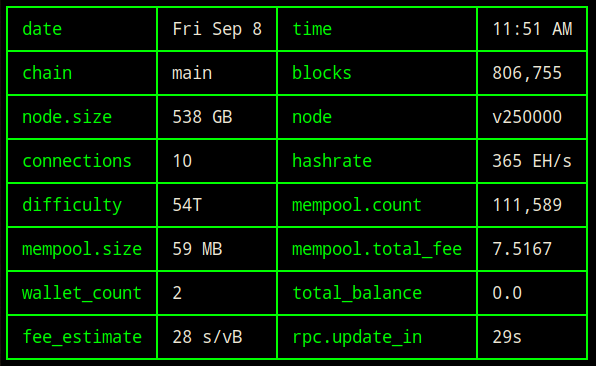
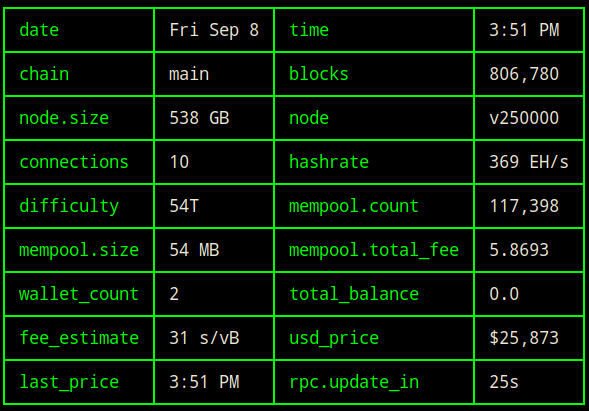
added external price fetch

Changed region(s): [[0.0, 0.0, 1.0, 0.9918]]

diff --git a/view/info.py b/view/info.py
@@ -1,9 +1,12 @@
-import time
+import time, json
 from rich.live import Live
 from rich.table import Table
 from datetime import datetime as dtm
 import util, rpc
+from pathlib import Path
+from datetime import datetime
 
+next_price_up_at = None
 
 def _table(data: dict, clr: str, updt_in:int):
     if data: 
@@ -13,25 +16,36 @@ def _table(data: dict, clr: str, updt_in:int):
         vlist, row = [], []
         vlist.append(['date', datestr, 'time', timestr])
         data['rpc.update_in'] = f'[{clr}]{updt_in}s'
-        for k, v in data.items():
+        for idx, k in enumerate(data):
+            v = data[k]
             row.append(k)
             row.append(v)
-            if len(row) == 4:
+            if len(row) == 4 or idx == len(data) - 1:
                 vlist.append(row)
                 row = []
         for v in vlist: 
-            tbl.add_row(v[0], f'[{clr}]{v[1]}', v[2], f'[{clr}]{v[3]}')
+            if len(v) == 4:
+                tbl.add_row(v[0], f'[{clr}]{v[1]}', v[2], f'[{clr}]{v[3]}')
+            elif len(v) == 2:
+                tbl.add_row(v[0], f'[{clr}]{v[1]}')                
         return tbl
     
 
-def get_data():
+def get_data(fetch_price):
     data = rpc.get_info()
+    f = Path(__file__).parents[1] / 'ext_data.json'
+    if fetch_price == 1 and f.exists():
+        delay = int(util.get_conf('stats')['price_fetch_delay'])
+        ext = json.loads(f.read_text(encoding='UTF-8'))
+        data['usd_price'] = f"${ext['price']:,}"
+        data['last_price'] = (datetime.fromtimestamp(ext['timestamp'])).strftime('%-I:%M %p')
+
     return data
 
 
-def load():
+def load(fetch_price):
     cfg = util.get_conf('console')
-    data = get_data()
+    data = get_data(fetch_price)
     clr = cfg['font_color']
     updt_in = int(cfg['rpc_update_freq'])
     with Live(_table(data, clr, updt_in), auto_refresh=False) as live:
@@ -39,5 +53,5 @@ def load():
             for i in range(updt_in, 0, -1):
                 live.update(_table(data, clr, i), refresh=True)
                 time.sleep(1)
-            data = get_data()
+            data = get_data(fetch_price)
             live.update(_table(data, clr, updt_in), refresh=True)

diff --git a/external.py b/external.py
@@ -1,0 +1,28 @@
+import requests, time, json
+from bs4 import BeautifulSoup as bs
+from pathlib import Path
+import util
+import threading
+from time import time, sleep
+
+lock = threading.Lock()
+
+
+URL = 'https://river.com'
+delay = int(util.get_conf('stats')['price_fetch_delay'])
+
+def save_price(run_forever=True):
+    while(True):
+        if run_forever: sleep(delay)
+        r = requests.get(URL)
+        content = bs(r.content, 'html.parser')
+        price = content.find('p', {'class':'js-nav-price'})
+        price = int(float(price.text.strip().replace(',', '').replace('$', '')))
+        data = {"price":price, "timestamp":time()}
+        fp = Path('ext_data.json')
+        if fp.exists(): fp.unlink()
+        lock.acquire()
+        with fp.open("w", encoding="UTF-8") as f: 
+            json.dump(data, f)
+        lock.release()
+        if not run_forever: break

diff --git a/node_cmd.py b/node_cmd.py
@@ -1,6 +1,7 @@
 from view import info, wallets, unspent, chainstate, mempool
 import argparse
-import util
+from threading import Thread
+import util, external
  
 
 
@@ -13,11 +14,19 @@ def _args():
 def main():
     args = _args()
     cmd = util.get_conf('console')['default_view']
+    
     if args.cmd:
         cmd = (args.cmd).lower()  
+    
     if cmd == 'info':
-        info.load()
-    elif cmd == 'wallets':
+        fetch_price = int(util.get_conf('stats')['enable_price_fetch'])
+        if int(fetch_price) == 1: 
+            external.save_price(run_forever=False)
+            b = Thread(name='bg', daemon=True, target=external.save_price)
+            b.start()
+        info.load(fetch_price)    
+
+    elif cmd == "wallets":
         wallets.load()
     elif cmd == 'unspent':
         unspent.load()
